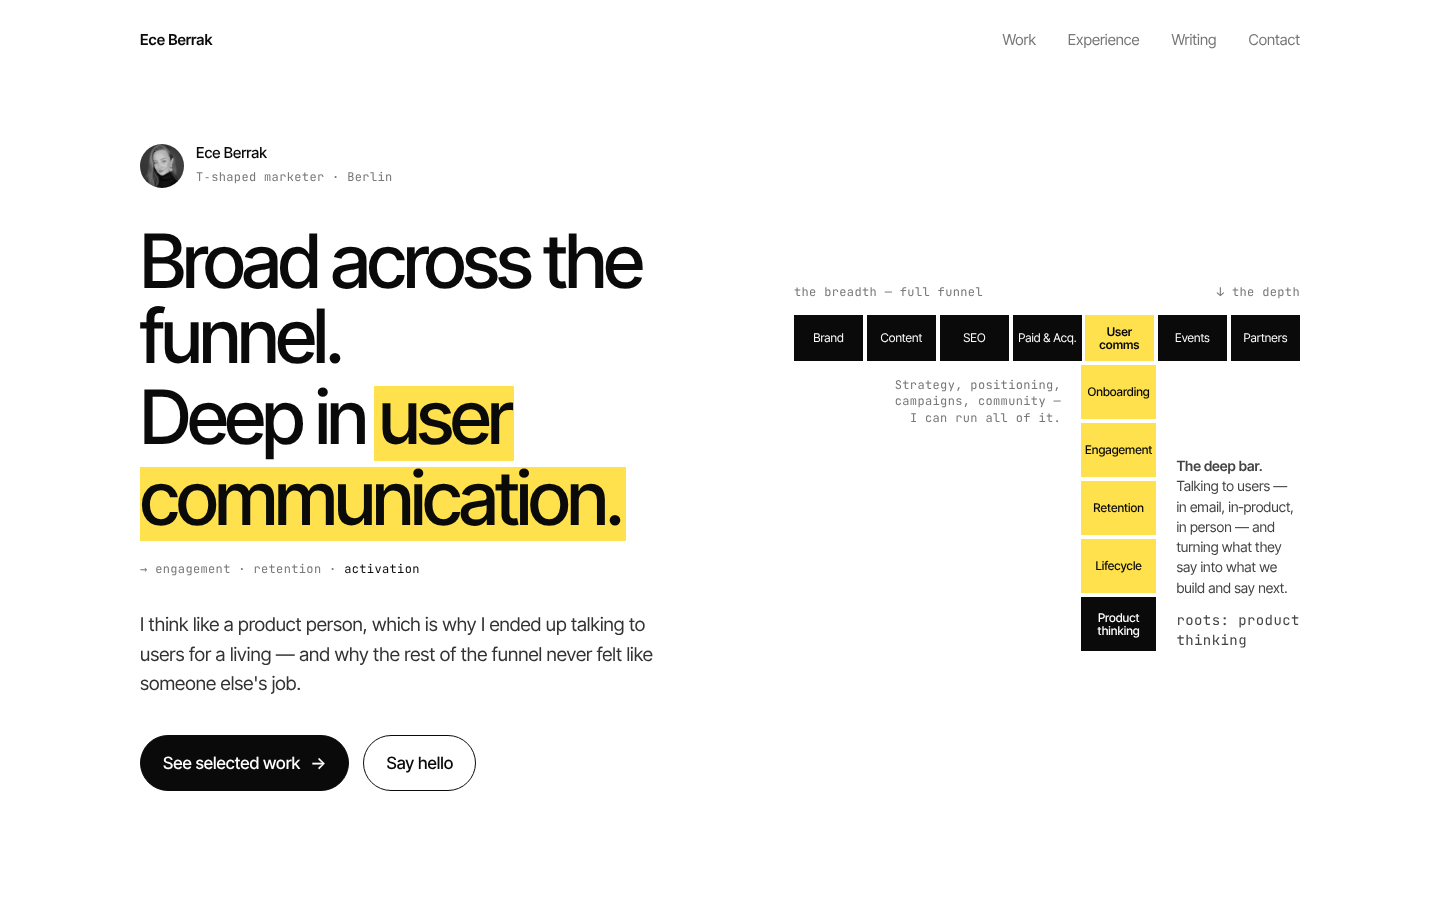
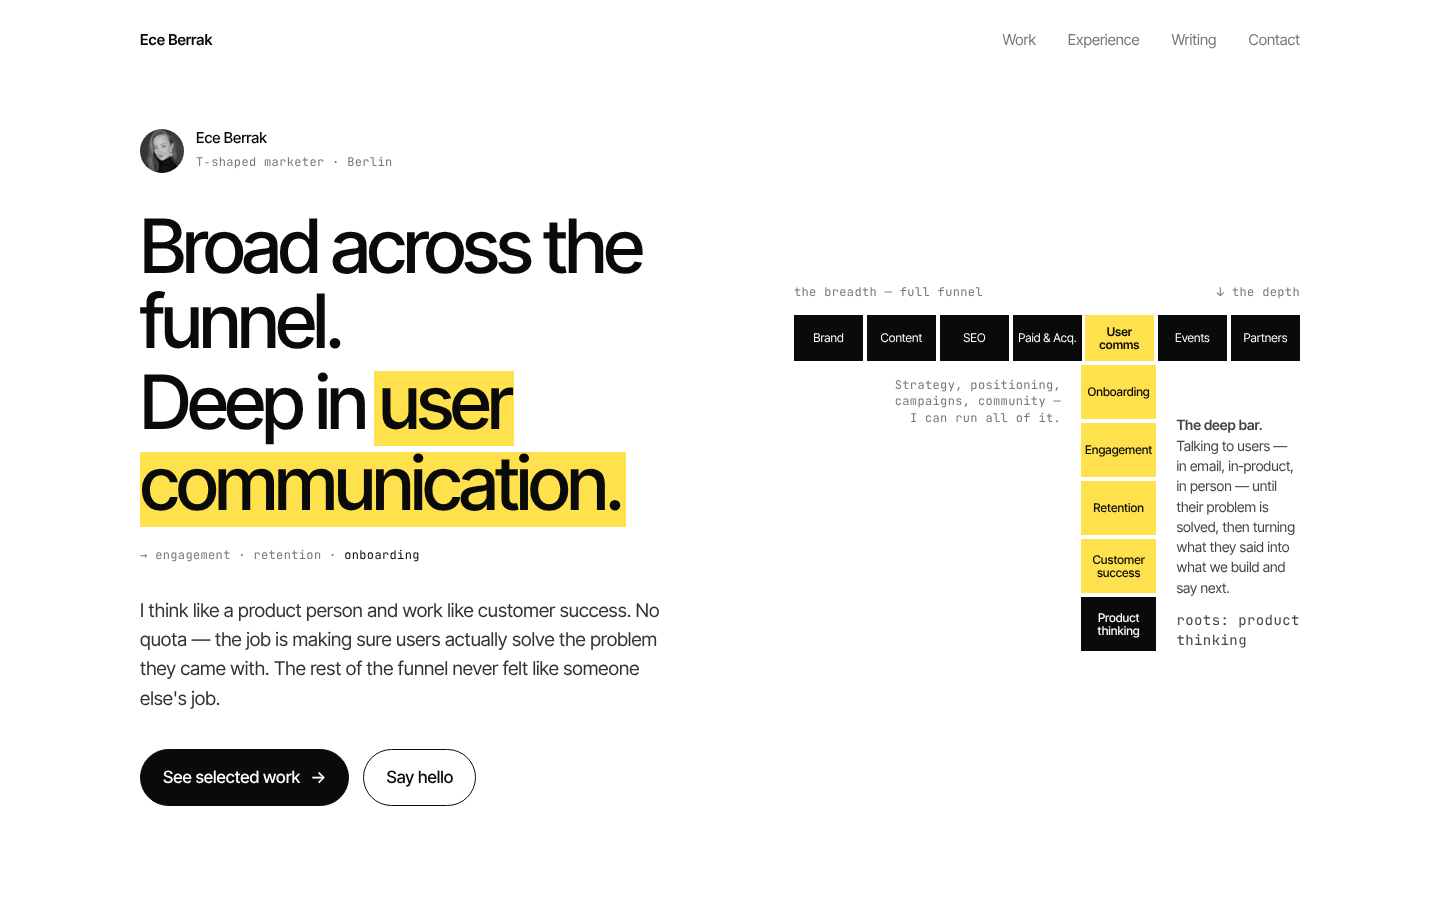
concepts: add customer-success angle (no quota, solve the user's problem) to all three heroes
Claude-Session: https://claude.ai/code/session_016LQdoHtT1gagq8YtEzWsot

Changed region(s): [[0.0938, 0.1244, 0.4688, 0.7778], [0.75, 0.4667, 0.9062, 0.6844], [0.0938, 0.8089, 0.3438, 0.9022]]

diff --git a/concepts/hero-1-highlight.html b/concepts/hero-1-highlight.html
@@ -75,8 +75,8 @@ p.lead{margin-top:32px;max-width:520px;font-size:19px;color:#333;opacity:0;anima
         <span class="line"><span>Deep in <span class="hl">user</span></span></span>
         <span class="line"><span><span class="hl">communication.</span></span></span>
       </h1>
-      <div class="mono" style="margin-top:20px;opacity:0;animation:fade .8s .8s forwards">→ engagement · retention · <span class="rot" id="rot" style="color:var(--ink)"><b class="on">lifecycle</b><b>onboarding</b><b>activation</b></span></div>
-      <p class="lead">I think like a product person, which is why I ended up talking to users for a living — and why the rest of the funnel never felt like someone else's job.</p>
+      <div class="mono" style="margin-top:20px;opacity:0;animation:fade .8s .8s forwards">→ engagement · retention · <span class="rot" id="rot" style="color:var(--ink)"><b class="on">customer success</b><b>lifecycle</b><b>onboarding</b></span></div>
+      <p class="lead">I think like a product person and work like customer success. No quota — the job is making sure users actually solve the problem they came with. The rest of the funnel never felt like someone else's job.</p>
       <div class="cta"><a class="btn dark" href="#">See selected work <span class="arr">→</span></a><a class="btn" href="#">Say hello</a></div>
     </div>
     <div class="t" aria-label="T-shaped skill map">
@@ -86,8 +86,8 @@ p.lead{margin-top:32px;max-width:520px;font-size:19px;color:#333;opacity:0;anima
       </div>
       <div class="stem">
         <div class="left mono">Strategy, positioning,<br>campaigns, community —<br>I can run all of it.</div>
-        <ol id="stem"><li>Onboarding</li><li>Engagement</li><li>Retention</li><li>Lifecycle</li><li>Product thinking</li></ol>
-        <div class="note"><p><b>The deep bar.</b> Talking to users — in email, in‑product, in person — and turning what they say into what we build and say next.</p><p class="mono">roots: product thinking</p></div>
+        <ol id="stem"><li>Onboarding</li><li>Engagement</li><li>Retention</li><li>Customer success</li><li>Product thinking</li></ol>
+        <div class="note"><p><b>The deep bar.</b> Talking to users — in email, in‑product, in person — until their problem is solved, then turning what they said into what we build and say next.</p><p class="mono">roots: product thinking</p></div>
       </div>
     </div>
   </header>

diff --git a/concepts/hero-3-split.html b/concepts/hero-3-split.html
@@ -56,7 +56,7 @@ h1 em{font-family:"Instrument Serif",serif;font-weight:400;letter-spacing:-.01em
       <div>
         <span class="mono">( t‑shaped marketer · berlin )</span>
         <h1 id="h" style="margin-top:28px">Broad across the <em>funnel</em>. Deep <span class="under"><span>where users live.</span><svg viewBox="0 0 200 20" preserveAspectRatio="none"><path d="M2 14 C 50 4, 120 4, 198 12"/></svg></span></h1>
-        <p style="margin-top:32px;max-width:470px;color:#444;font-size:19px">User communication, engagement and retention are my home turf. Product thinking is the root — it's why I stay close to the people using the product.</p>
+        <p style="margin-top:32px;max-width:470px;color:#444;font-size:19px">User communication, engagement and retention are my home turf. I work with a customer‑success mindset — no quota, just making sure users solve the problem they came with. Product thinking is the root.</p>
       </div>
       <div class="stats">
         <div><b data-n="5" data-s=" yrs">0</b><span class="mono">B2B SaaS</span></div>
@@ -101,7 +101,7 @@ h.childNodes.forEach(n=>{if(n.nodeType===3){const f=document.createDocumentFragm
 document.querySelectorAll('[data-n]').forEach(el=>{const n=+el.dataset.n,s=el.dataset.s||'';let t0;const run=t=>{t0??=t;const k=Math.min((t-t0)/1200,1);el.textContent=Math.round(n*(1-Math.pow(1-k,3)))+s;if(k<1)requestAnimationFrame(run)};setTimeout(()=>requestAnimationFrame(run),900)});
 // tree
 const NS='http://www.w3.org/2000/svg',mk=(t,a)=>{const e=document.createElementNS(NS,t);for(const k in a)e.setAttribute(k,a[k]);return e};
-const ticks=[['user communication',410],['onboarding',360],['engagement',310],['retention',265],['lifecycle',220]];
+const ticks=[['user communication',415],['customer success',375],['onboarding',335],['engagement',295],['retention',255],['lifecycle',215]];
 const tg=document.getElementById('ticks');
 ticks.forEach(([s,y],i)=>{const g=mk('g',{class:'tick'});g.style.animationDelay=(.8+i*.12)+'s';g.append(mk('line',{x1:296,x2:316,y1:y,y2:y,stroke:'#0a0a0a','stroke-width':1}));const t=mk('text',{x:322,y:y+4});t.textContent=s;g.append(t);tg.append(g)});
 const leaves=[['Brand',130,150],['Content',430,140],['SEO',200,80],['Campaigns',360,80],['Community',280,52],['Paid',70,110],['Events',490,100],['Partners',140,40],['Positioning',420,36]];

diff --git a/concepts/hero-2-spotlight.html b/concepts/hero-2-spotlight.html
@@ -54,14 +54,14 @@ h1 .w:nth-child(3){animation-delay:.15s}
     <h1><span class="w">Ece</span><br><span class="w">Berrak</span></h1>
     <div class="row">
       <p>Deep in <em>user communication, engagement and retention</em>. Fluent across the rest of the funnel.</p>
-      <p>Product thinking is the root of it — understand how people use the thing, then talk to them like you do.</p>
+      <p>No quota, customer‑success mindset: the goal is that users solve the problem they came with. Product thinking is the root of it.</p>
       <div class="me"><img src="../assets/ece.jpg" alt=""><a class="cta" href="#">See the work <span>→</span></a></div>
     </div>
   </header>
 </div>
 <div class="marquee"><div class="track" id="track"></div></div>
 <script>
-const items=[['Brand'],['Content'],['User communication',1],['SEO'],['Retention',1],['Campaigns'],['Engagement',1],['Community'],['Lifecycle',1],['Events'],['Product thinking',1],['Partnerships']];
+const items=[['Brand'],['Content'],['User communication',1],['SEO'],['Retention',1],['Campaigns'],['Engagement',1],['Community'],['Lifecycle',1],['Customer success',1],['Events'],['Product thinking',1],['Partnerships']];
 const t=document.getElementById('track');for(let k=0;k<2;k++)items.forEach(([s,d])=>{const e=document.createElement('span');e.textContent=s;if(d)e.className='d';t.append(e)});
 const b=document.getElementById('blob');let tx=innerWidth*.72,ty=innerHeight*.42,x=tx,y=ty;
 addEventListener('pointermove',e=>{tx=e.clientX;ty=e.clientY});
